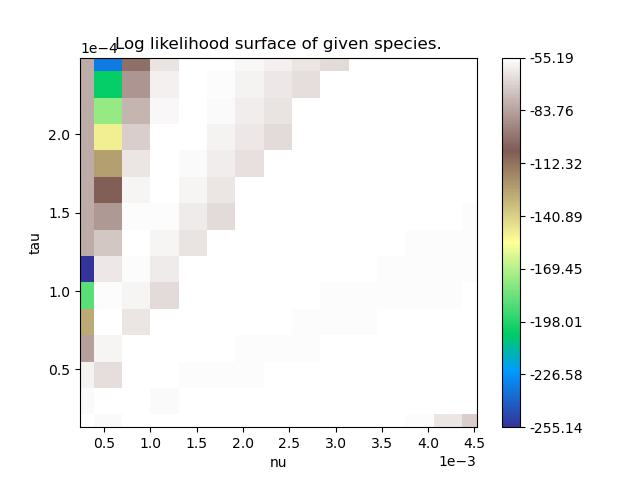
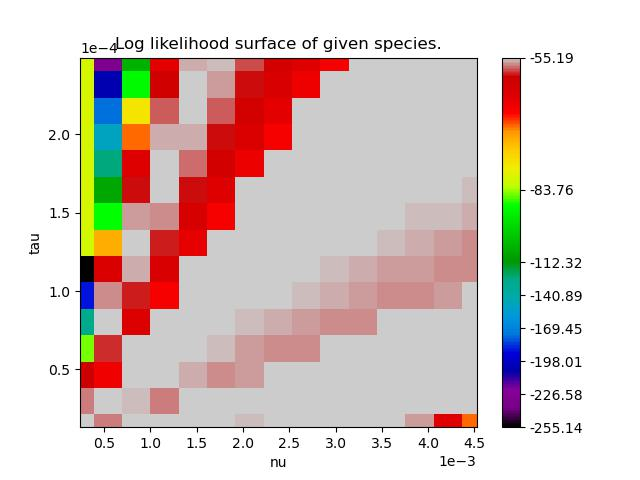
plot likelihood test.

diff --git a/Scripts/plot_likelihood.py b/Scripts/plot_likelihood.py
@@ -472,7 +472,7 @@ class PlotLikelihood():
                         # print(ll_string)
                 # generate 2 2d grids for the x & y bounds
                 z_min, z_max = -numpy.abs(z).max(), -numpy.abs(z).min()
-                z_mid = (z_min + z_max) / 2
+                z_mid = 0.8 * z_max  + 0.2  * z_min
 
                 #  fig, ax = plt.subplots()
 
@@ -493,7 +493,7 @@ class PlotLikelihood():
                 # pcm = ax.pcolormesh(x, y, z, rasterized=True, norm=midnorm,
                 #                     cmap='RdBu_r', shading='auto')
                 plt.pcolor(x, y, z,
-                           norm=midnorm, cmap='terrain', shading='auto')
+                           norm=midnorm, cmap='nipy_spectral', shading='auto')
                 # plt.pcolor(x, y, z,
                 #             norm=matplotlib.colors.CenteredNorm(), cmap='RdBu_r')
                 ax.axis([x.min(), x.max(), y.min(), y.max()])
